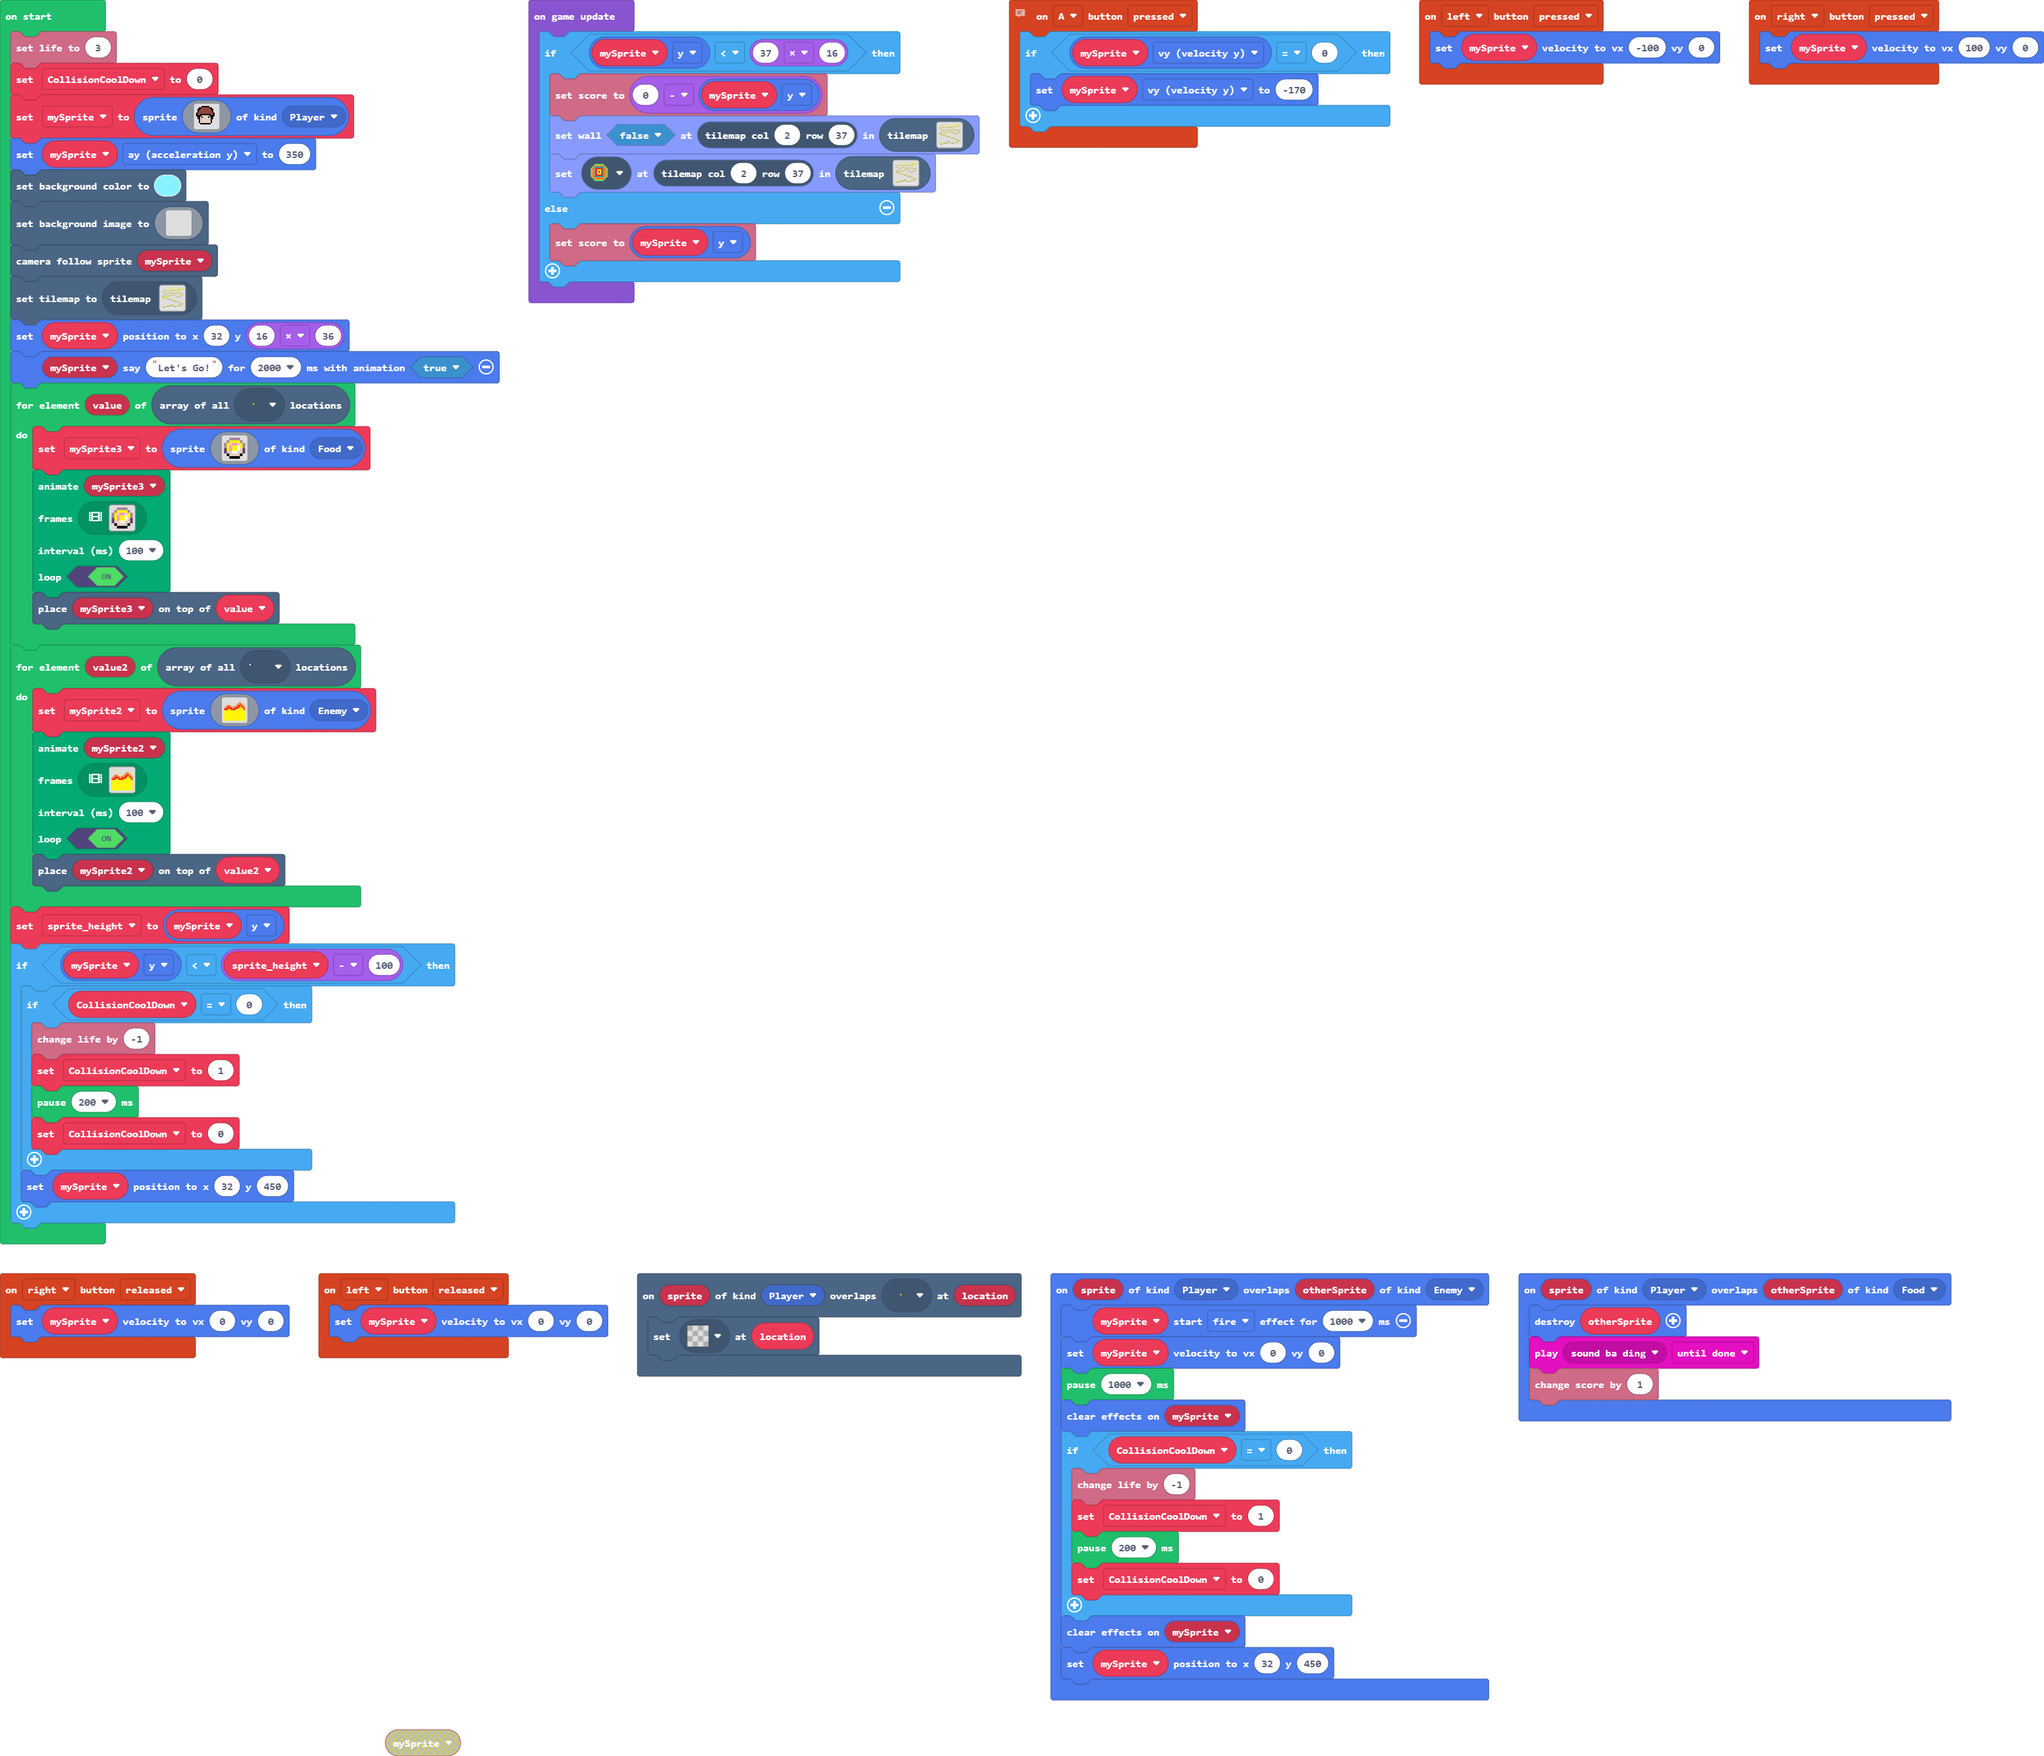
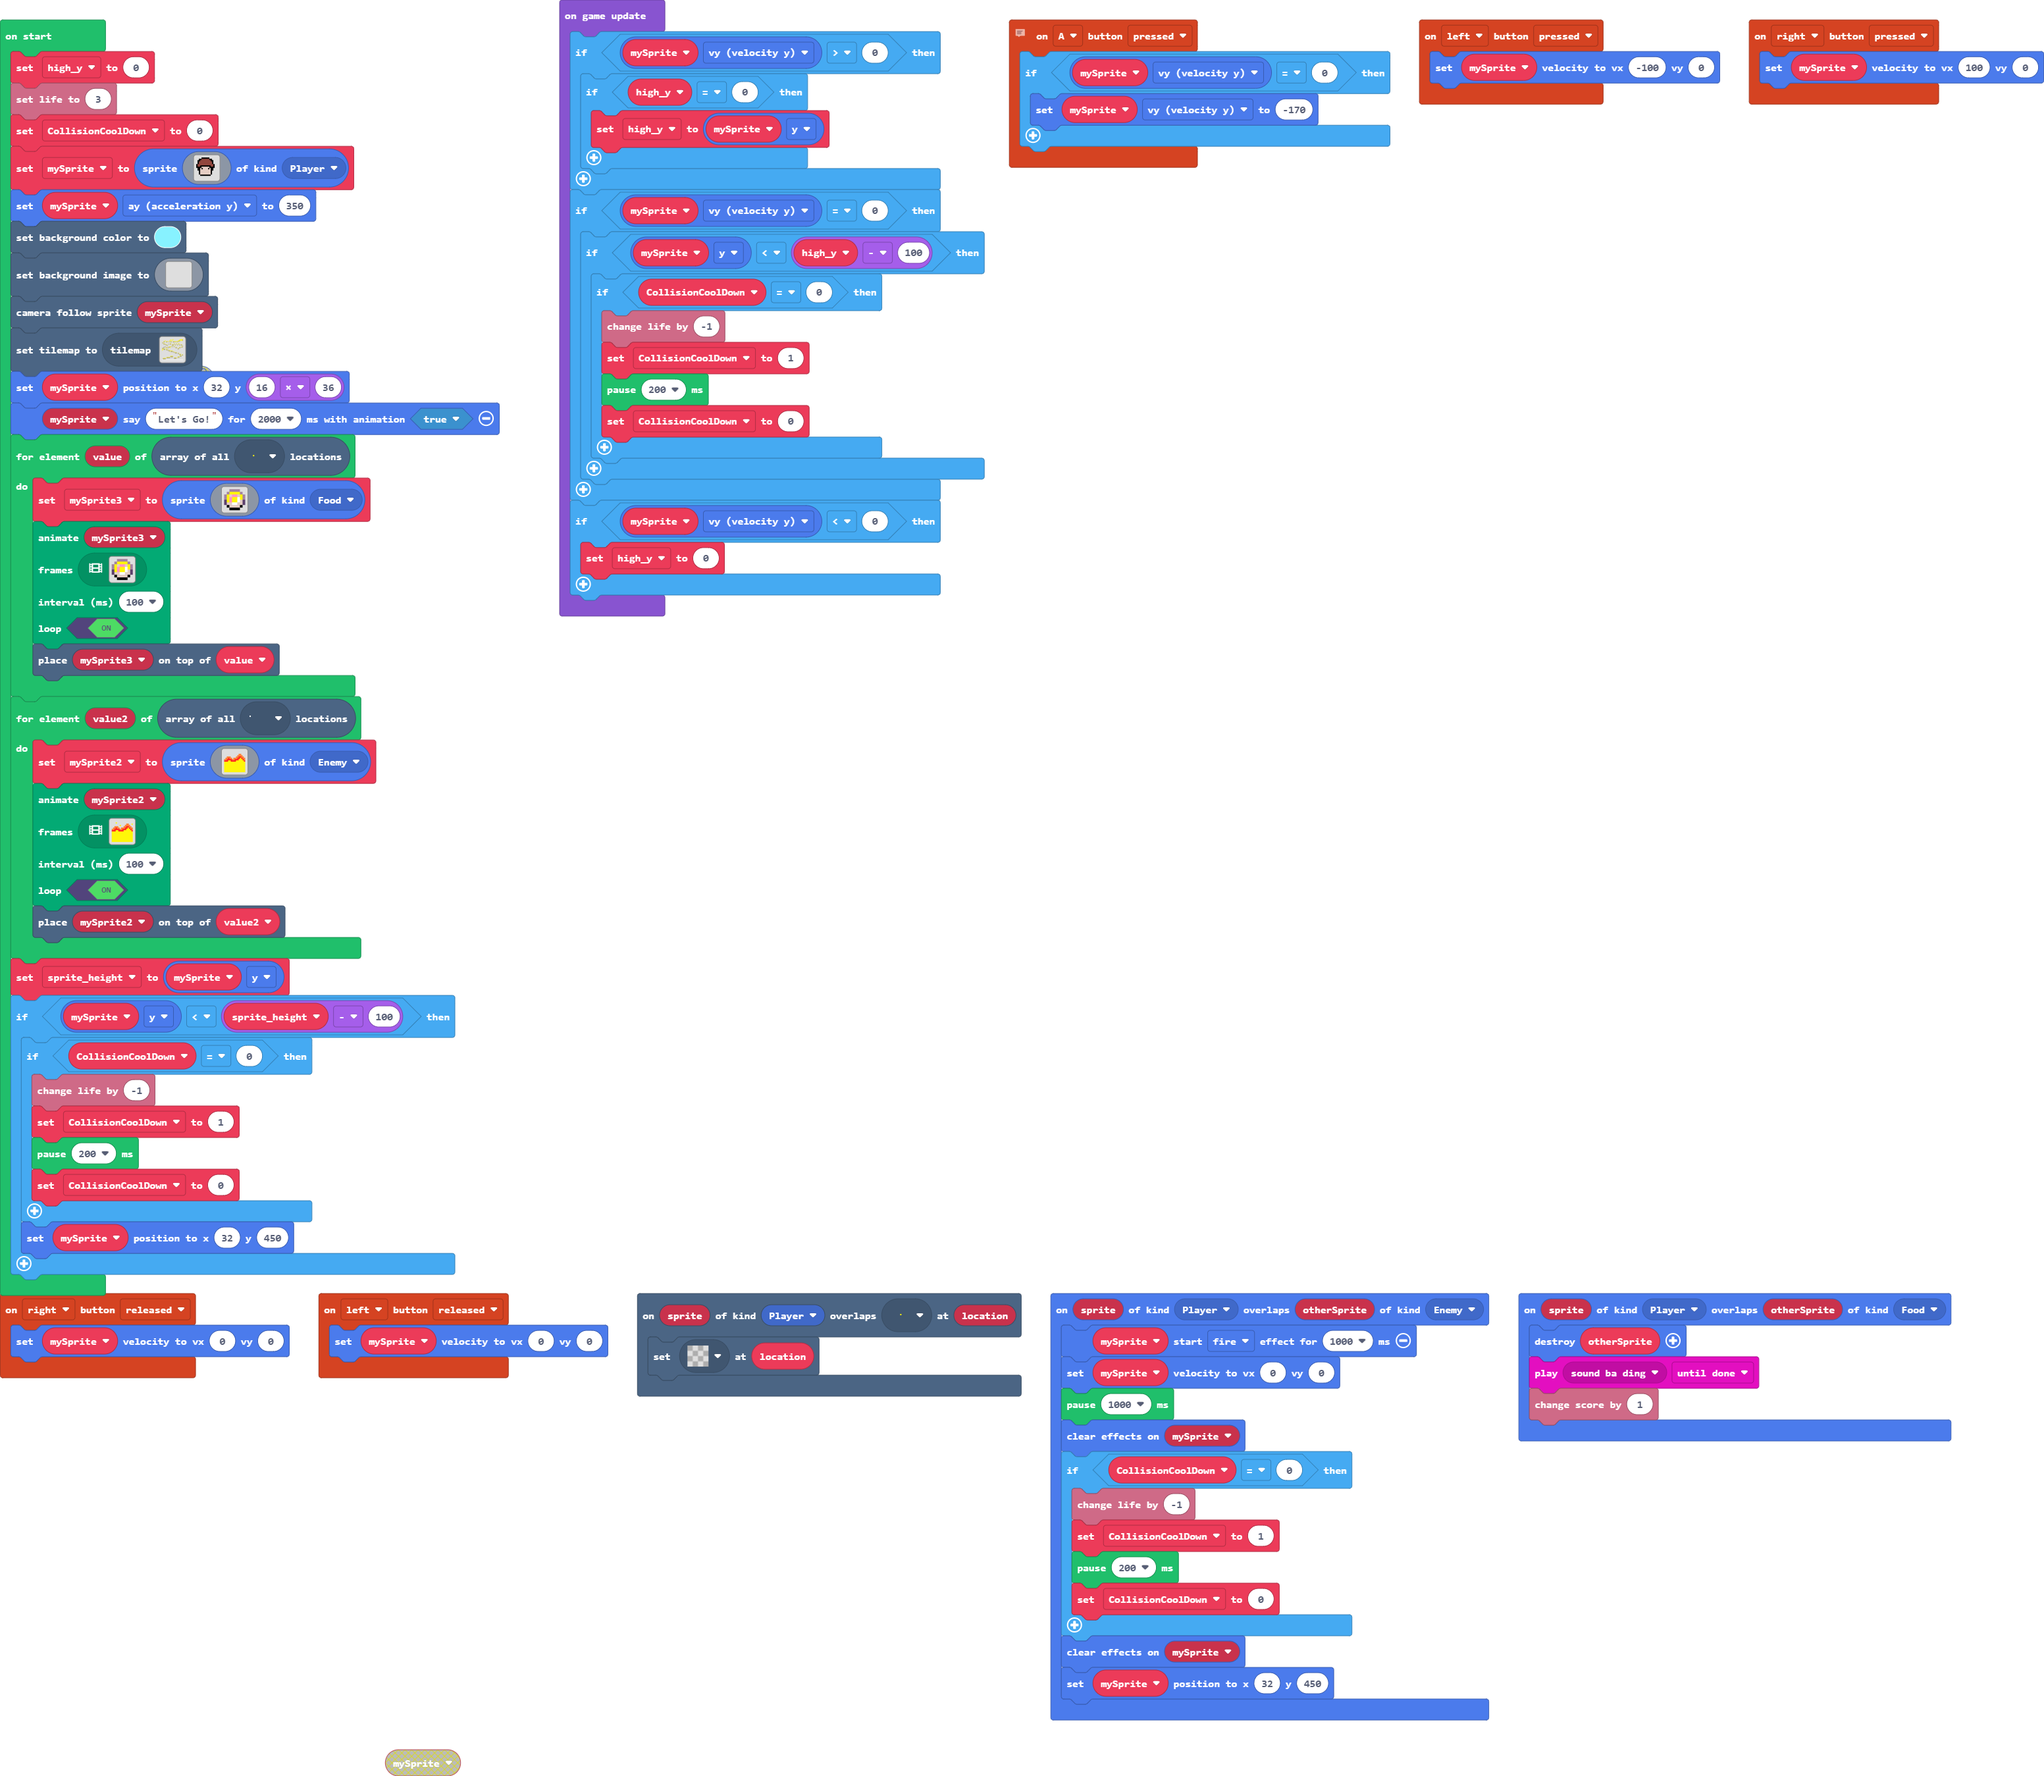
Update main.blocks, main.ts, tilemap.g.jres, tilemap.g.ts

Changed region(s): [[0.0, 0.0, 1.0, 0.9644]]

diff --git a/tilemap.g.ts b/tilemap.g.ts
@@ -193,6 +193,139 @@ namespace myTiles {
 . . . . . . . . . . . . . . . . 
 . . . . . . . . . . . . . . . . 
 `, [myTiles.transparency16], TileScale.Sixteen);
+            case "level9":
+            case "level9":return tiles.createTilemap(hex`1000100000000000000000000000000000000000000000000000000000000000000000000000000000000000000000000000000000000000000000000000000000000000000000000000000000000000000000000000000000000000000000000000000000000000000000000000000000000000000000000000000000000000000000000000000000000000000000000000000000000000000000000000000000000000000000000000000000000000000000000000000000000000000000000000000000000000000000000000000000000000000000000000000000000000000000000000000000000000000000000000000000000000000000000000000000000000`, img`
+. . . . . . . . . . . . . . . . 
+. . . . . . . . . . . . . . . . 
+. . . . . . . . . . . . . . . . 
+. . . . . . . . . . . . . . . . 
+. . . . . . . . . . . . . . . . 
+. . . . . . . . . . . . . . . . 
+. . . . . . . . . . . . . . . . 
+. . . . . . . . . . . . . . . . 
+. . . . . . . . . . . . . . . . 
+. . . . . . . . . . . . . . . . 
+. . . . . . . . . . . . . . . . 
+. . . . . . . . . . . . . . . . 
+. . . . . . . . . . . . . . . . 
+. . . . . . . . . . . . . . . . 
+. . . . . . . . . . . . . . . . 
+. . . . . . . . . . . . . . . . 
+`, [myTiles.transparency16], TileScale.Sixteen);
+            case "level10":
+            case "level10":return tiles.createTilemap(hex`1000100000000000000000000000000000000000000000000000000000000000000000000000000000000000000000000000000000000000000000000000000000000000000000000000000000000000000000000000000000000000000000000000000000000000000000000000000000000000000000000000000000000000000000000000000000000000000000000000000000000000000000000000000000000000000000000000000000000000000000000000000000000000000000000000000000000000000000000000000000000000000000000000000000000000000000000000000000000000000000000000000000000000000000000000000000000000`, img`
+. . . . . . . . . . . . . . . . 
+. . . . . . . . . . . . . . . . 
+. . . . . . . . . . . . . . . . 
+. . . . . . . . . . . . . . . . 
+. . . . . . . . . . . . . . . . 
+. . . . . . . . . . . . . . . . 
+. . . . . . . . . . . . . . . . 
+. . . . . . . . . . . . . . . . 
+. . . . . . . . . . . . . . . . 
+. . . . . . . . . . . . . . . . 
+. . . . . . . . . . . . . . . . 
+. . . . . . . . . . . . . . . . 
+. . . . . . . . . . . . . . . . 
+. . . . . . . . . . . . . . . . 
+. . . . . . . . . . . . . . . . 
+. . . . . . . . . . . . . . . . 
+`, [myTiles.transparency16], TileScale.Sixteen);
+            case "level11":
+            case "level11":return tiles.createTilemap(hex`1000100000000000000000000000000000000000000000000000000000000000000000000000000000000000000000000000000000000000000000000000000000000000000000000000000000000000000000000000000000000000000000000000000000000000000000000000000000000000000000000000000000000000000000000000000000000000000000000000000000000000000000000000000000000000000000000000000000000000000000000000000000000000000000000000000000000000000000000000000000000000000000000000000000000000000000000000000000000000000000000000000000000000000000000000000000000000`, img`
+. . . . . . . . . . . . . . . . 
+. . . . . . . . . . . . . . . . 
+. . . . . . . . . . . . . . . . 
+. . . . . . . . . . . . . . . . 
+. . . . . . . . . . . . . . . . 
+. . . . . . . . . . . . . . . . 
+. . . . . . . . . . . . . . . . 
+. . . . . . . . . . . . . . . . 
+. . . . . . . . . . . . . . . . 
+. . . . . . . . . . . . . . . . 
+. . . . . . . . . . . . . . . . 
+. . . . . . . . . . . . . . . . 
+. . . . . . . . . . . . . . . . 
+. . . . . . . . . . . . . . . . 
+. . . . . . . . . . . . . . . . 
+. . . . . . . . . . . . . . . . 
+`, [myTiles.transparency16], TileScale.Sixteen);
+            case "level12":
+            case "level12":return tiles.createTilemap(hex`1000100000000000000000000000000000000000000000000000000000000000000000000000000000000000000000000000000000000000000000000000000000000000000000000000000000000000000000000000000000000000000000000000000000000000000000000000000000000000000000000000000000000000000000000000000000000000000000000000000000000000000000000000000000000000000000000000000000000000000000000000000000000000000000000000000000000000000000000000000000000000000000000000000000000000000000000000000000000000000000000000000000000000000000000000000000000000`, img`
+. . . . . . . . . . . . . . . . 
+. . . . . . . . . . . . . . . . 
+. . . . . . . . . . . . . . . . 
+. . . . . . . . . . . . . . . . 
+. . . . . . . . . . . . . . . . 
+. . . . . . . . . . . . . . . . 
+. . . . . . . . . . . . . . . . 
+. . . . . . . . . . . . . . . . 
+. . . . . . . . . . . . . . . . 
+. . . . . . . . . . . . . . . . 
+. . . . . . . . . . . . . . . . 
+. . . . . . . . . . . . . . . . 
+. . . . . . . . . . . . . . . . 
+. . . . . . . . . . . . . . . . 
+. . . . . . . . . . . . . . . . 
+. . . . . . . . . . . . . . . . 
+`, [myTiles.transparency16], TileScale.Sixteen);
+            case "level13":
+            case "level13":return tiles.createTilemap(hex`1000100000000000000000000000000000000000000000000000000000000000000000000000000000000000000000000000000000000000000000000000000000000000000000000000000000000000000000000000000000000000000000000000000000000000000000000000000000000000000000000000000000000000000000000000000000000000000000000000000000000000000000000000000000000000000000000000000000000000000000000000000000000000000000000000000000000000000000000000000000000000000000000000000000000000000000000000000000000000000000000000000000000000000000000000000000000000`, img`
+. . . . . . . . . . . . . . . . 
+. . . . . . . . . . . . . . . . 
+. . . . . . . . . . . . . . . . 
+. . . . . . . . . . . . . . . . 
+. . . . . . . . . . . . . . . . 
+. . . . . . . . . . . . . . . . 
+. . . . . . . . . . . . . . . . 
+. . . . . . . . . . . . . . . . 
+. . . . . . . . . . . . . . . . 
+. . . . . . . . . . . . . . . . 
+. . . . . . . . . . . . . . . . 
+. . . . . . . . . . . . . . . . 
+. . . . . . . . . . . . . . . . 
+. . . . . . . . . . . . . . . . 
+. . . . . . . . . . . . . . . . 
+. . . . . . . . . . . . . . . . 
+`, [myTiles.transparency16], TileScale.Sixteen);
+            case "level14":
+            case "level14":return tiles.createTilemap(hex`1000100000000000000000000000000000000000000000000000000000000000000000000000000000000000000000000000000000000000000000000000000000000000000000000000000000000000000000000000000000000000000000000000000000000000000000000000000000000000000000000000000000000000000000000000000000000000000000000000000000000000000000000000000000000000000000000000000000000000000000000000000000000000000000000000000000000000000000000000000000000000000000000000000000000000000000000000000000000000000000000000000000000000000000000000000000000000`, img`
+. . . . . . . . . . . . . . . . 
+. . . . . . . . . . . . . . . . 
+. . . . . . . . . . . . . . . . 
+. . . . . . . . . . . . . . . . 
+. . . . . . . . . . . . . . . . 
+. . . . . . . . . . . . . . . . 
+. . . . . . . . . . . . . . . . 
+. . . . . . . . . . . . . . . . 
+. . . . . . . . . . . . . . . . 
+. . . . . . . . . . . . . . . . 
+. . . . . . . . . . . . . . . . 
+. . . . . . . . . . . . . . . . 
+. . . . . . . . . . . . . . . . 
+. . . . . . . . . . . . . . . . 
+. . . . . . . . . . . . . . . . 
+. . . . . . . . . . . . . . . . 
+`, [myTiles.transparency16], TileScale.Sixteen);
+            case "level15":
+            case "level15":return tiles.createTilemap(hex`1000100000000000000000000000000000000000000000000000000000000000000000000000000000000000000000000000000000000000000000000000000000000000000000000000000000000000000000000000000000000000000000000000000000000000000000000000000000000000000000000000000000000000000000000000000000000000000000000000000000000000000000000000000000000000000000000000000000000000000000000000000000000000000000000000000000000000000000000000000000000000000000000000000000000000000000000000000000000000000000000000000000000000000000000000000000000000`, img`
+. . . . . . . . . . . . . . . . 
+. . . . . . . . . . . . . . . . 
+. . . . . . . . . . . . . . . . 
+. . . . . . . . . . . . . . . . 
+. . . . . . . . . . . . . . . . 
+. . . . . . . . . . . . . . . . 
+. . . . . . . . . . . . . . . . 
+. . . . . . . . . . . . . . . . 
+. . . . . . . . . . . . . . . . 
+. . . . . . . . . . . . . . . . 
+. . . . . . . . . . . . . . . . 
+. . . . . . . . . . . . . . . . 
+. . . . . . . . . . . . . . . . 
+. . . . . . . . . . . . . . . . 
+. . . . . . . . . . . . . . . . 
+. . . . . . . . . . . . . . . . 
+`, [myTiles.transparency16], TileScale.Sixteen);
         }
         return null;
     })

diff --git a/main.ts b/main.ts
@@ -50,6 +50,7 @@ let mySprite2: Sprite = null
 let mySprite3: Sprite = null
 let mySprite: Sprite = null
 let CollisionCoolDown = 0
+let high_y = 0
 info.setLife(3)
 CollisionCoolDown = 0
 mySprite = sprites.create(img`
@@ -752,11 +753,22 @@ if (mySprite.y < sprite_height - 100) {
     mySprite.setPosition(32, 450)
 }
 game.onUpdate(function () {
-    if (mySprite.y < 37 * 16) {
-        info.setScore(0 - mySprite.y)
-        tileUtil.setWallAt(tilemap`Supergood`, tiles.getTileLocation(2, 37), false)
-        tileUtil.setTileAt(tilemap`Supergood`, tiles.getTileLocation(2, 37), assets.tile`myTile4`)
-    } else {
-        info.setScore(mySprite.y)
+    if (mySprite.vy > 0) {
+        if (high_y == 0) {
+            high_y = mySprite.y
+        }
+    }
+    if (mySprite.vy == 0) {
+        if (mySprite.y < high_y - 100) {
+            if (CollisionCoolDown == 0) {
+                info.changeLifeBy(-1)
+                CollisionCoolDown = 1
+                pause(200)
+                CollisionCoolDown = 0
+            }
+        }
+    }
+    if (mySprite.vy < 0) {
+        high_y = 0
     }
 })
